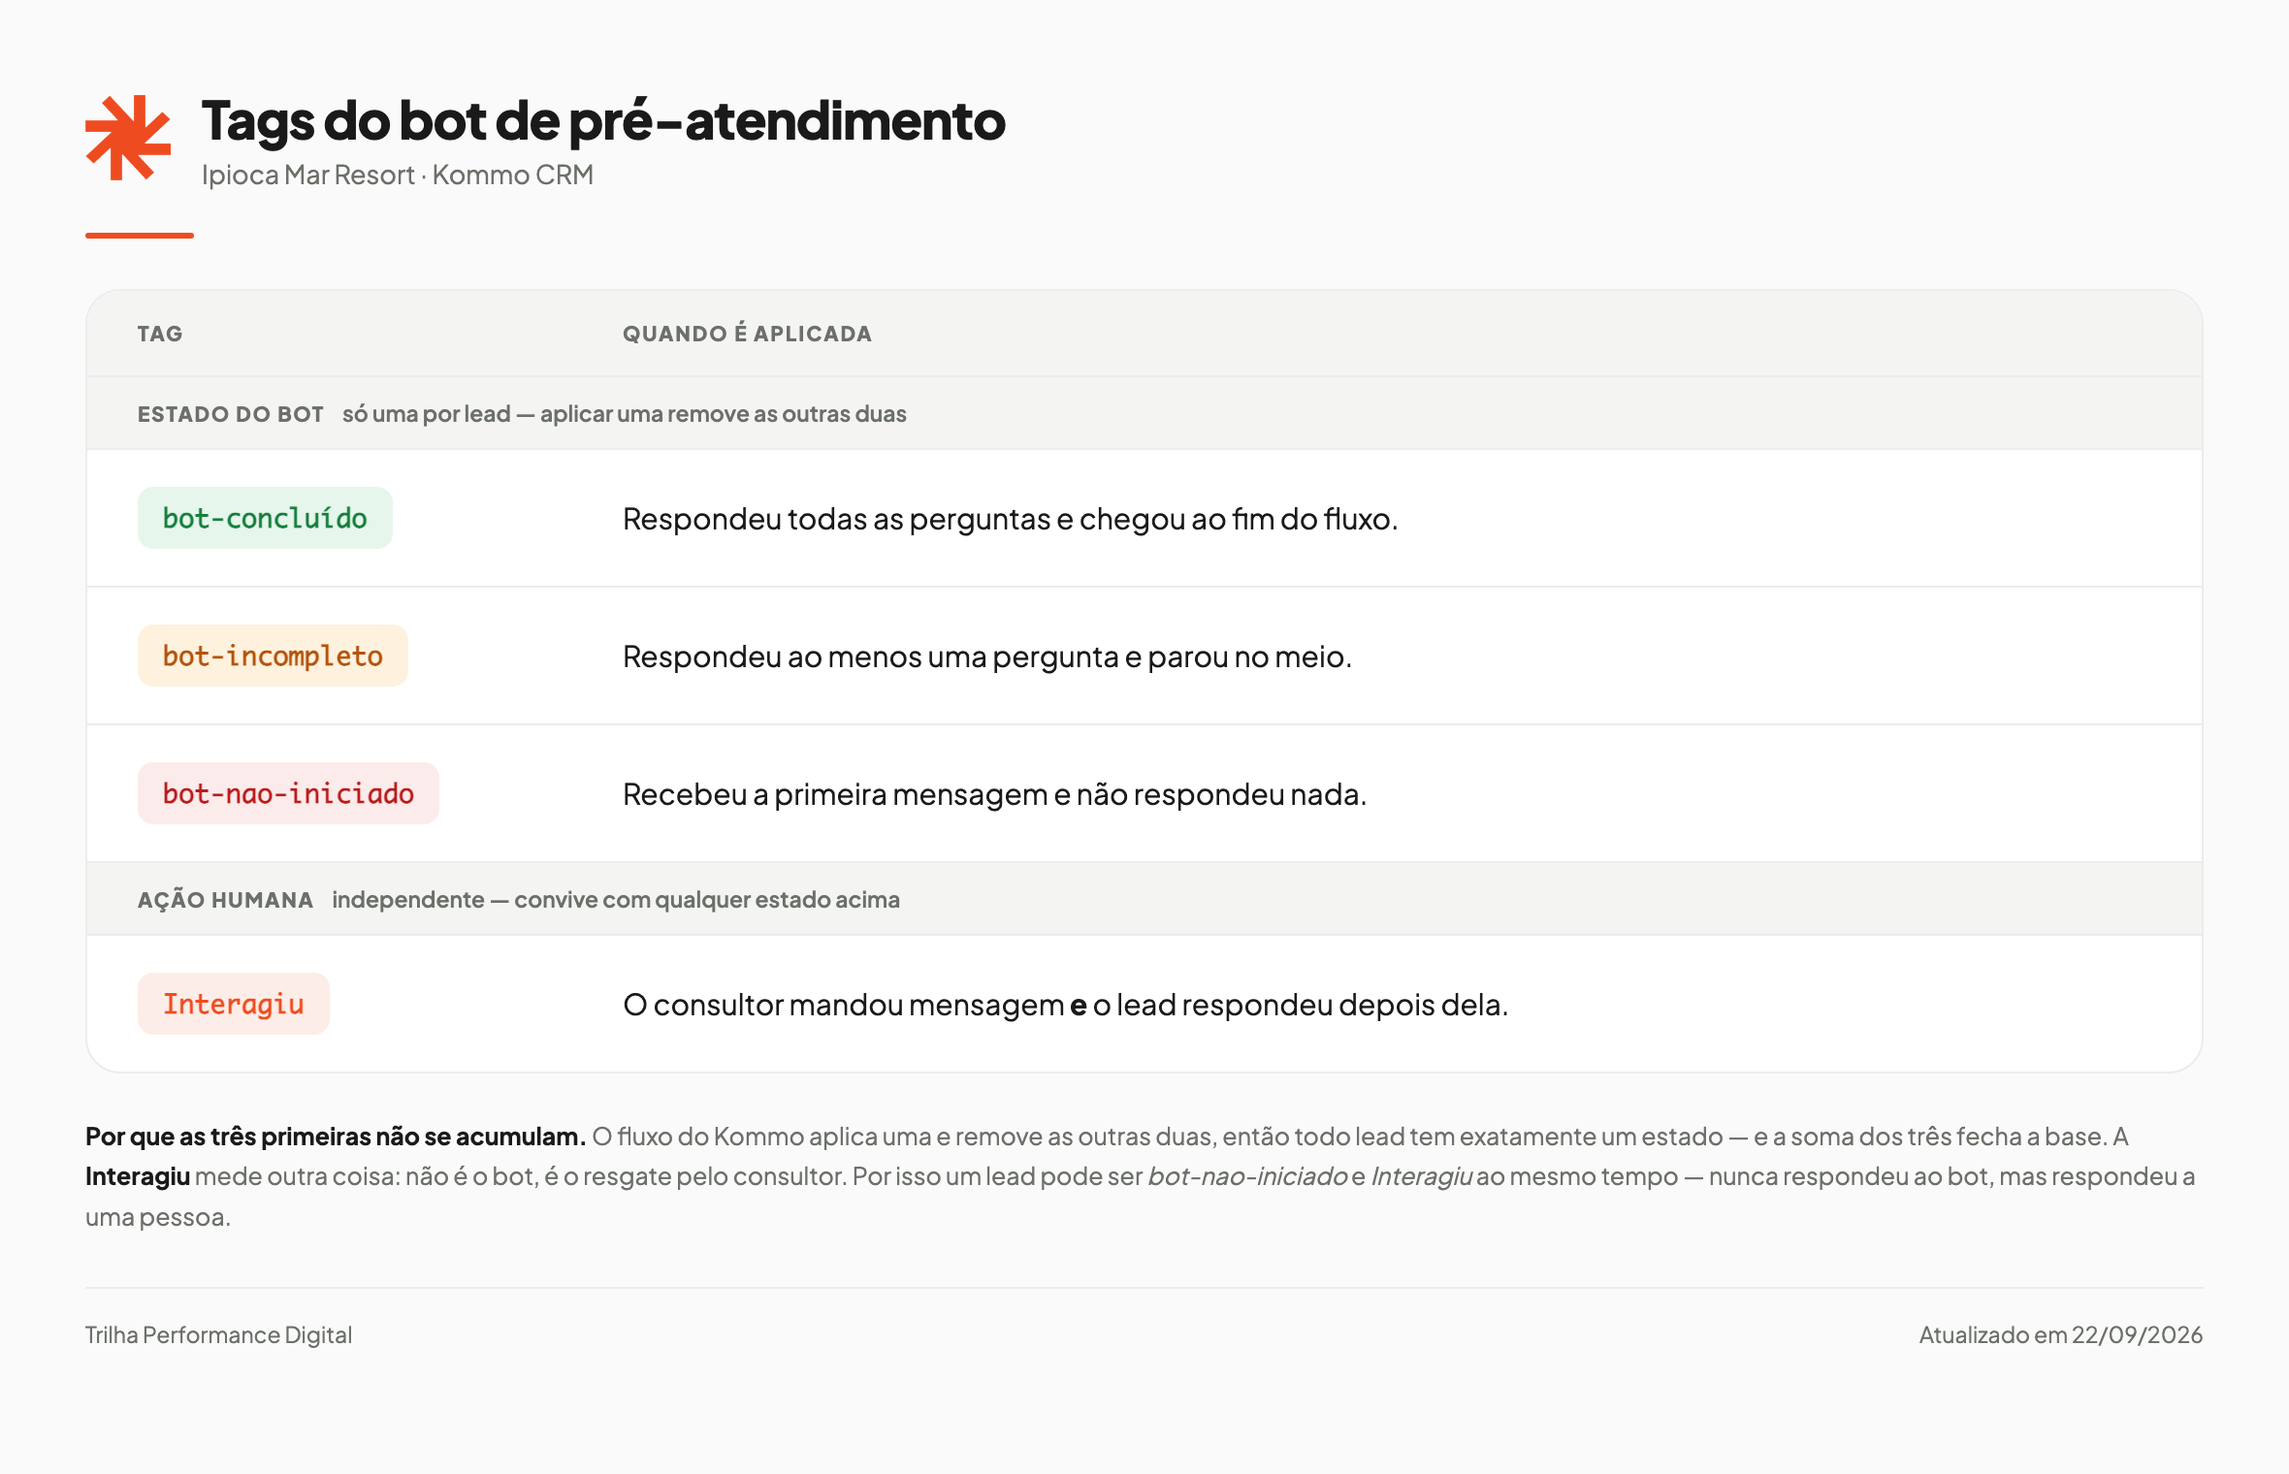
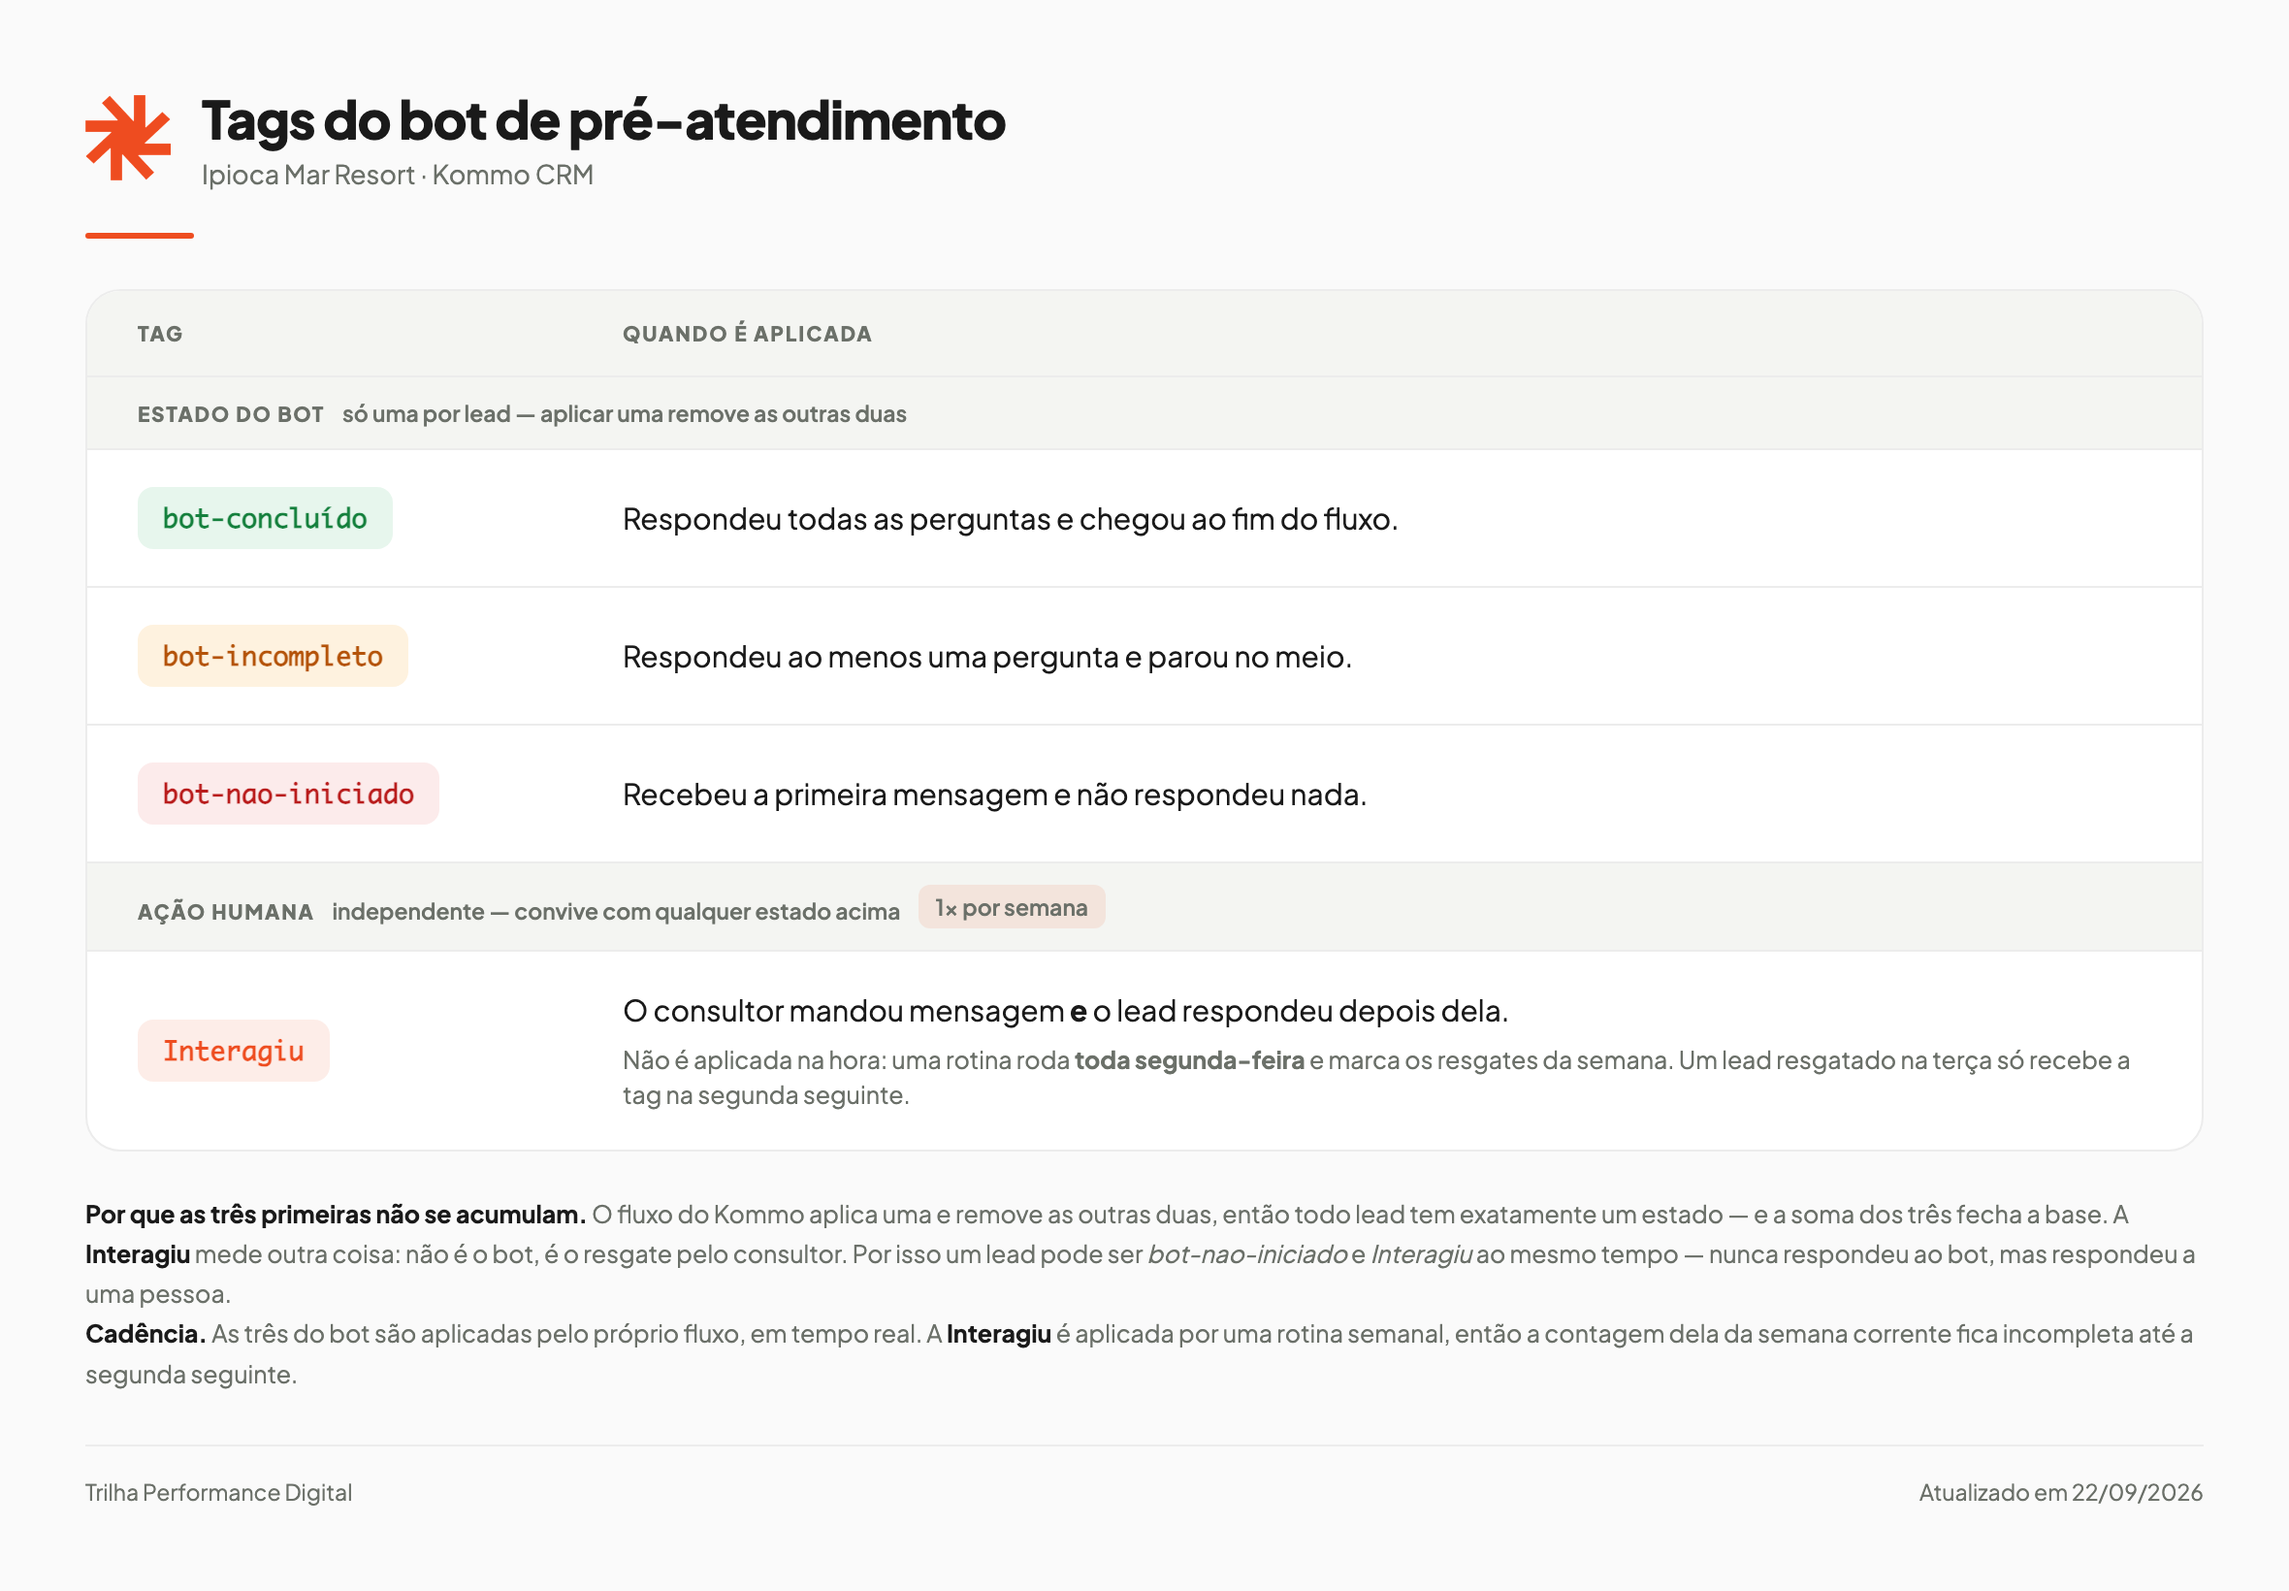
docs(tabela-tags): deixa explícito que a Interagiu é semanal
As três tags do bot são aplicadas pelo próprio fluxo, em tempo real; a
Interagiu vem de uma rotina que roda às segundas. Sem isso no material,
quem olhasse a contagem da semana corrente ia achar que o resgate caiu.

Entram um selo "1× por semana" no grupo, a nota na linha da tag e um
parágrafo de cadência no rodapé.

diff --git a/docs/tabela-tags-bot.html b/docs/tabela-tags-bot.html
@@ -42,6 +42,10 @@
             letter-spacing:.08em;text-transform:uppercase;color:var(--muted)}
   .grupo td span{font-weight:600;letter-spacing:0;text-transform:none;font-size:11.5px;
                  color:var(--muted);margin-left:9px}
+  .nota{display:block;font-size:12.5px;color:var(--muted);margin-top:5px;line-height:1.45}
+  .selo{display:inline-block;font-size:10px;font-weight:800;letter-spacing:.07em;
+        text-transform:uppercase;padding:4px 9px;border-radius:6px;margin-left:9px;
+        background:rgba(238,77,32,.10);color:var(--accent);vertical-align:2px}
 
   .pe{margin-top:22px;font-size:12.5px;color:var(--muted);line-height:1.65}
   .pe b{color:var(--text);font-weight:700}
@@ -79,11 +83,13 @@
         <td class="quando">Recebeu a primeira mensagem e não respondeu nada.</td>
       </tr>
 
-      <tr class="grupo"><td colspan="2">Ação humana<span>independente — convive com qualquer estado acima</span></td></tr>
+      <tr class="grupo"><td colspan="2">Ação humana<span>independente — convive com qualquer estado acima</span><span class="selo">1× por semana</span></td></tr>
 
       <tr>
         <td><span class="tag t-acc">Interagiu</span></td>
-        <td class="quando">O consultor mandou mensagem <b>e</b> o lead respondeu depois dela.</td>
+        <td class="quando">O consultor mandou mensagem <b>e</b> o lead respondeu depois dela.
+          <span class="nota">Não é aplicada na hora: uma rotina roda <b>toda segunda-feira</b> e
+          marca os resgates da semana. Um lead resgatado na terça só recebe a tag na segunda seguinte.</span></td>
       </tr>
     </table>
   </div>
@@ -93,6 +99,8 @@
     então todo lead tem exatamente um estado — e a soma dos três fecha a base.
     A <b>Interagiu</b> mede outra coisa: não é o bot, é o resgate pelo consultor. Por isso um lead pode ser
     <i>bot-nao-iniciado</i> e <i>Interagiu</i> ao mesmo tempo — nunca respondeu ao bot, mas respondeu a uma pessoa.
+    <br><b>Cadência.</b> As três do bot são aplicadas pelo próprio fluxo, em tempo real. A <b>Interagiu</b> é
+    aplicada por uma rotina semanal, então a contagem dela da semana corrente fica incompleta até a segunda seguinte.
   </div>
 
   <div class="assin">
